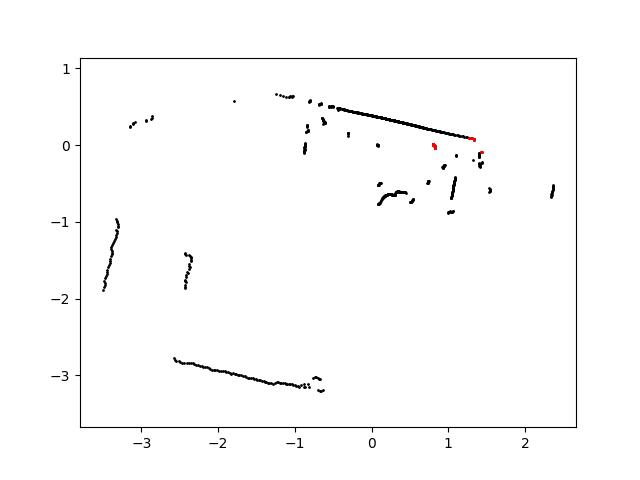
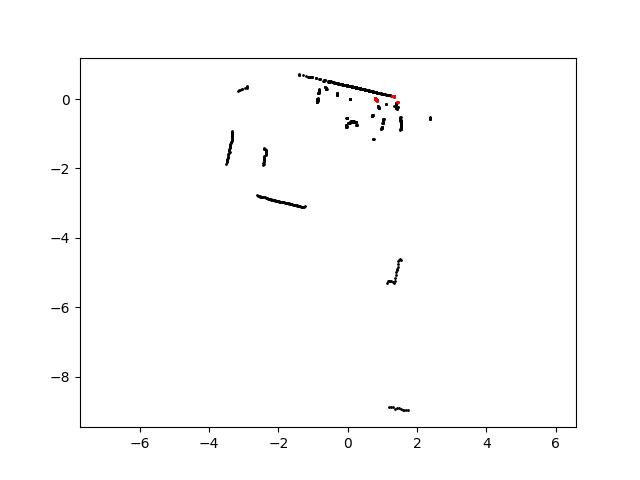
update

diff --git a/src/camera_detection/camera_detection/server.py b/src/camera_detection/camera_detection/server.py
@@ -1,0 +1,172 @@
+#!/usr/bin/env python3
+
+import rclpy
+import cv2
+import numpy as np
+from rclpy.node import Node
+from sensor_msgs.msg import Image
+from cv_bridge import CvBridge
+from http.server import HTTPServer, BaseHTTPRequestHandler
+import threading
+import signal
+import sys
+
+node: Node
+# Global variable to store the latest image
+latest_img_msg: Image | None = None
+latest_jpg: bytes | None = None
+should_exit = False
+bridge = CvBridge()
+
+last_updated_img_msg: Image | None = None
+def update_latest_jpg():
+    global latest_img_msg, latest_jpg, last_updated_img_msg
+    msg = latest_img_msg
+    if msg is None or (last_updated_img_msg is msg):
+        return latest_jpg
+    try:
+        # Convert ROS Image message to OpenCV image
+        cv_image = bridge.imgmsg_to_cv2(msg, desired_encoding='bgr8')
+        # resize
+        resized_image = cv2.resize(cv_image, None, fx=0.15, fy=0.15)
+        img = resized_image
+        success, jpg = cv2.imencode('.jpg', img)
+        if success:
+            latest_jpg = jpg.tobytes()
+        last_updated_img_msg = msg
+    except Exception as e:
+        node.get_logger().error(f'Error processing image: {str(e)}')
+
+class ImageHandler(BaseHTTPRequestHandler):
+    def _set_cors_headers(self):
+        self.send_header('Access-Control-Allow-Origin', '*')
+        self.send_header('Access-Control-Allow-Methods', 'GET, OPTIONS')
+        self.send_header('Access-Control-Allow-Headers', 'Content-Type')
+        self.send_header('Access-Control-Allow-Headers', 'Content-Type, Cache-Control')
+    def do_OPTIONS(self):
+        self.send_response(200)
+        self._set_cors_headers()
+        self.end_headers()
+    
+    def log_message(self, format, *args):
+        pass
+    
+    def do_GET(self):
+        try:
+            if self.path.startswith('/image'):
+                self.send_response(200)
+                self._set_cors_headers()
+                self.send_header('Content-Type', 'image/jpeg')
+                
+                # Generate fresh image data
+                update_latest_jpg()
+                if not latest_jpg:
+                    raise Exception("No image available")
+                
+                self.send_header('Content-Length', str(len(latest_jpg)))
+                self.end_headers()
+                self.wfile.write(latest_jpg)
+                
+            else:  # HTML page
+                self.send_response(200)
+                self._set_cors_headers()
+                self.send_header('Content-Type', 'text/html')
+                self.end_headers()
+                self.wfile.write(html)
+                
+        except Exception as e:
+            self.send_response(500)
+            self._set_cors_headers()
+            self.end_headers()
+            self.wfile.write(f"Error: {str(e)}".encode())
+
+class ImageSubscriberNode(Node):
+    def __init__(self):
+        super().__init__('image_subscriber')
+        self.subscription = self.create_subscription(
+            Image,
+            '/capture/camera_0/img',  
+            self.image_callback,
+            10
+        )
+        self.server_thread = None
+        self.get_logger().info('Image subscriber node started')
+        
+        # Start the HTTP server in a separate thread
+        self.start_http_server()
+        
+    def start_http_server(self, address="0.0.0.0", port=8085):
+        self.server_thread = threading.Thread(
+            target=self.launch_server,
+            args=(address, port),
+            daemon=True
+        )
+        self.server_thread.start()
+        self.get_logger().info(f"HTTP server started on port {port}")
+        
+    def launch_server(self, address, port):
+        server_address = (address, port)
+        self.httpd = HTTPServer(server_address, ImageHandler)
+        self.httpd.serve_forever()
+        
+    def image_callback(self, msg: Image):
+        global latest_img_msg
+        latest_img_msg = msg
+
+def main(args=None):
+    rclpy.init(args=args)    
+    # Create the node
+    global node
+    node = ImageSubscriberNode()
+    try:
+        # Spin the node
+        rclpy.spin(node)
+    except KeyboardInterrupt:
+        pass
+    # Clean up
+    node.destroy_node()
+
+if __name__ == '__main__':
+    main()
+
+html = """
+<html>
+    <head>
+        <title>ROS2 Camera Stream</title>
+        <style>
+            body { font-family: Arial, sans-serif; text-align: center; }
+            img { max-width: 100%; }
+        </style>
+    </head>
+    <body>
+        <h1>ROS2 Camera Stream</h1>
+        <img id="stream" alt="Camera Stream" style="width: min(960px, 80vw)">
+        <p>Image automatically refreshes every second</p>
+        <script>
+            const imgElement = document.getElementById("stream");
+            function blobToDataURL(blob) {
+                return new Promise((res) => {
+                    const a = new FileReader();
+                    a.onload = u => res(u.target.result)
+                    a.readAsDataURL(blob);
+                })
+            }
+            function delay(duration) {
+                return new Promise(res => setTimeout(res, duration))
+            }
+            async function grabNextImage() {
+                return fetch("/image.jpg")
+                    .then(async res => {
+                        res
+                            .blob()
+                            .then(blobToDataURL)
+                            .then(url => imgElement.src = url)
+                        await delay(33);
+                        return grabNextImage();
+                    })
+            }
+            grabNextImage()
+        </script>
+    </body>
+</html>
+""".encode()

diff --git a/src/camera_detection/camera_detection/operation.py b/src/camera_detection/camera_detection/operation.py
@@ -3,6 +3,8 @@ from rclpy.node import Node
 from std_msgs.msg import Bool
 from geometry_msgs.msg import Twist
 import time
+import math
+from threading import Timer
 
 class Operation(Node):
 
@@ -10,6 +12,7 @@ class Operation(Node):
 
     def __init__(self):
         self.lastupdate = time.time()
+        self.stop_timer = None
         super().__init__("OmnibotOperation")
         self.operation_override_publisher = self.create_publisher(
             Bool, "/rover/operation_override", 10
@@ -26,8 +29,29 @@ class Operation(Node):
             msg.data = self.override
             self.operation_override_publisher.publish(msg)
             self.get_logger().info("Override reset to False after 1 second")
-        
 
+    def move_forward_after_rotation(self, x_value):
+        twist_msg = Twist()
+        twist_msg.linear.x = 0.3 * x_value
+        twist_msg.angular.z = 0.0
+        self.cmd_vel_publisher.publish(twist_msg)
+
+        # Estimate travel time: assume 0.3 m/s
+        travel_time = min(abs(x_value) / 0.3, 5.0)  # cap at 5s
+        self.get_logger().info(f"Moving forward for {travel_time:.2f}s toward x={x_value}")
+
+        # Schedule stop
+        self.stop_timer = Timer(travel_time, self.stop_movement)
+        self.stop_timer.start()
+
+    def stop_movement(self):
+        twist_msg = Twist()
+        twist_msg.linear.x = 0.0
+        twist_msg.angular.z = 0.0
+        self.cmd_vel_publisher.publish(twist_msg)
+        self.get_logger().info("Stopped at target.")
+
+    
     def convert_and_publish(self, command):
         twist_msg = Twist()
         twist_msg.linear.x = 0.0
@@ -42,6 +66,10 @@ class Operation(Node):
             y_value = float(command.split("y:")[1].split()[0])
             twist_msg.linear.x = y_value * (- 0.5)
             twist_msg.angular.z = x_value * (- 0.5)
+
+            self.velocity_publisher.publish(twist_msg)
+            self.get_logger().info(f"Publishing velocity command: {twist_msg}")
+
         elif "Button Click" in command or "Key Pressed" in command: 
             x_value = float(command.split("x:")[1].split()[0])
             y_value = float(command.split("y:")[1].split()[0])
@@ -57,12 +85,43 @@ class Operation(Node):
             else:
                 self.get_logger().warn(f"Unrecognized command: {command}")
                 return
+            
+            # Publish the Twist message
+            self.velocity_publisher.publish(twist_msg)
+            self.get_logger().info(f"Publishing velocity command: {twist_msg}")
+
+            
+        elif "Target location designated" in command:
+            try:
+                x_value = float(command.split("x:")[1].split(",")[0].strip())
+                y_value = float(command.split("y:")[1].split(")")[0].strip())
+
+                # Clear previous timer if any
+                if self.stop_timer:
+                    self.stop_timer.cancel()
+
+                # Step 1: Rotate first (based on Y)
+                if abs(y_value) > 0.05:
+                    twist_msg.linear.x = 0.0
+                    twist_msg.angular.z = -0.5 * y_value  # rotate direction
+                    self.cmd_vel_publisher.publish(twist_msg)
+
+                    # Estimate rotation time: assume 0.5 rad/s rotation speed
+                    rotation_time = min(abs(y_value) * 1.5, 3.0)  # cap at 3s
+                    self.get_logger().info(f"Rotating for {rotation_time:.2f}s toward y={y_value}")
+
+                    # After rotation, move forward
+                    self.stop_timer = Timer(rotation_time, self.move_forward_after_rotation, [x_value])
+                    self.stop_timer.start()
+                    return
+
+                # If no rotation needed, go straight immediately
+                if abs(x_value) > 0.05:
+                    self.move_forward_after_rotation(x_value)
+
+            except Exception as e:
+                self.get_logger().warn(f"Failed to parse LIDAR target command: {command} | Error: {str(e)}")
         
-        # Publish the Twist message
-        self.velocity_publisher.publish(twist_msg)
-        self.get_logger().info(f"Publishing velocity command: {twist_msg}")
-
-
 def main():
     from json import dumps, loads
     from time import sleep

diff --git a/src/camera_detection/camera_detection/scanner.py b/src/camera_detection/camera_detection/scanner.py
@@ -49,7 +49,7 @@ class Scanner(Node):
         y = pose_msg.pose.pose.orientation.y
         z = pose_msg.pose.pose.orientation.z
         w = pose_msg.pose.pose.orientation.w
-        self._logger.info(f"Orientation (x,y,z,w): ({x}, {y}, {z}, {w})")
+        # self._logger.info(f"Orientation (x,y,z,w): ({x}, {y}, {z}, {w})")
         # Convert to yaw (radians)
         (roll, pitch, yaw) = quat2euler([x, y, z, w])
 
@@ -82,10 +82,10 @@ class Scanner(Node):
 
         front_ranges = list[float]()
 
-        fig, ax = plt.subplots(1, 1)
-        ax.set_xlim(-5, 5)
-        ax.set_ylim(-5, 5)
-        ax.axis('equal')
+        # fig, ax = plt.subplots(1, 1)
+        # ax.set_xlim(-5, 5)
+        # ax.set_ylim(-5, 5)
+        # ax.axis('equal')
 
         scan_points: list[tuple[float, float]] = []
         front_points: list[tuple[float, float]] = []
@@ -111,9 +111,9 @@ class Scanner(Node):
                 front_ranges.append(x)
                 front_points.append((x, y))
     
-        ax.scatter(*zip(*scan_points), s=1, c='black')
-        ax.scatter(*zip(*front_points), s=1, c='red')
-        fig.savefig('scan.jpg')
+        # ax.scatter(*zip(*scan_points), s=1, c='black')
+        # ax.scatter(*zip(*front_points), s=1, c='red')
+        # fig.savefig('scan.jpg')
 
         # if len(front_ranges) > 0:
         #     self.get_logger().info(f"Object Distance: {min(front_ranges):.2f}m")

diff --git a/src/camera_detection/camera_detection/perception.py b/src/camera_detection/camera_detection/perception.py
@@ -71,11 +71,14 @@ def perception(node: Perception):
             with node.lock:
                 frame = node.frame
                 node.frame = None
-        frame_id = node.save_frame(frame)
+        frame = cv2.resize(frame, None, fx=0.2, fy=0.2)
+        h, w, _ = frame.shape
+        # frame_id = node.save_frame(frame)
         # Process the frame with YOLO
         results: list[Results] = model(frame)  # Perform detection on the frame
-        boxes = [frame_id.name]
-        image_id = frame_id.name
+        # boxes = [frame_id.name]
+        boxes = []
+        # image_id = frame_id.name
         
         # Print object details
         for result in results:
@@ -86,9 +89,9 @@ def perception(node: Perception):
                 # Bounding box coordinates
                 x1, y1, x2, y2, *_ = map(float, box.xyxy[0])
                 confidence = float(box.conf[0])  # Confidence score
-                boxes.append([label, x1, y1, x2, y2, confidence])
+                boxes.append([label, x1 / w, y1 / h, x2 / w, y2 / h, confidence])
 
-        socket.send_all(dumps(["image", image_id, boxes]) + "\n")
+        socket.send_all(dumps(["image", boxes]) + "\n")
         while True:
             line = socket.recv_line()
             if line is None:

diff --git a/src/rover/src/BaseDriver.cpp b/src/rover/src/BaseDriver.cpp
@@ -246,7 +246,7 @@ BaseDriver::BaseDriver() : Node("base") {
       device->query<MSP::ATTITUDE>();
   }));
   timers.push_back(
-      create_timer(2000ms, [this]() { device->query<MSP::ANALOG>(); }));
+      create_timer(10000ms, [this]() { device->query<MSP::ANALOG>(); }));
   // Debounced velocity command
   timers.push_back(create_timer(10ms, [this]() {
     if (velocity_io.updated) {

diff --git a/launch/perception.py b/launch/perception.py
@@ -51,6 +51,10 @@ nodes = [
         package="camera_detection",
         executable="scanner",
     ),
+    Node(
+        package="camera_detection",
+        executable="server",
+    ),
     DeclareLaunchArgument(
         'channel_type',
         default_value=channel_type,

diff --git a/src/camera_detection/setup.py b/src/camera_detection/setup.py
@@ -24,6 +24,7 @@ setup(
           'operation = camera_detection.operation:main',
           'stream = camera_detection.stream:main',
           'scanner = camera_detection.scanner:main',
+          'server = camera_detection.server:main',
         ],
     },
 )
